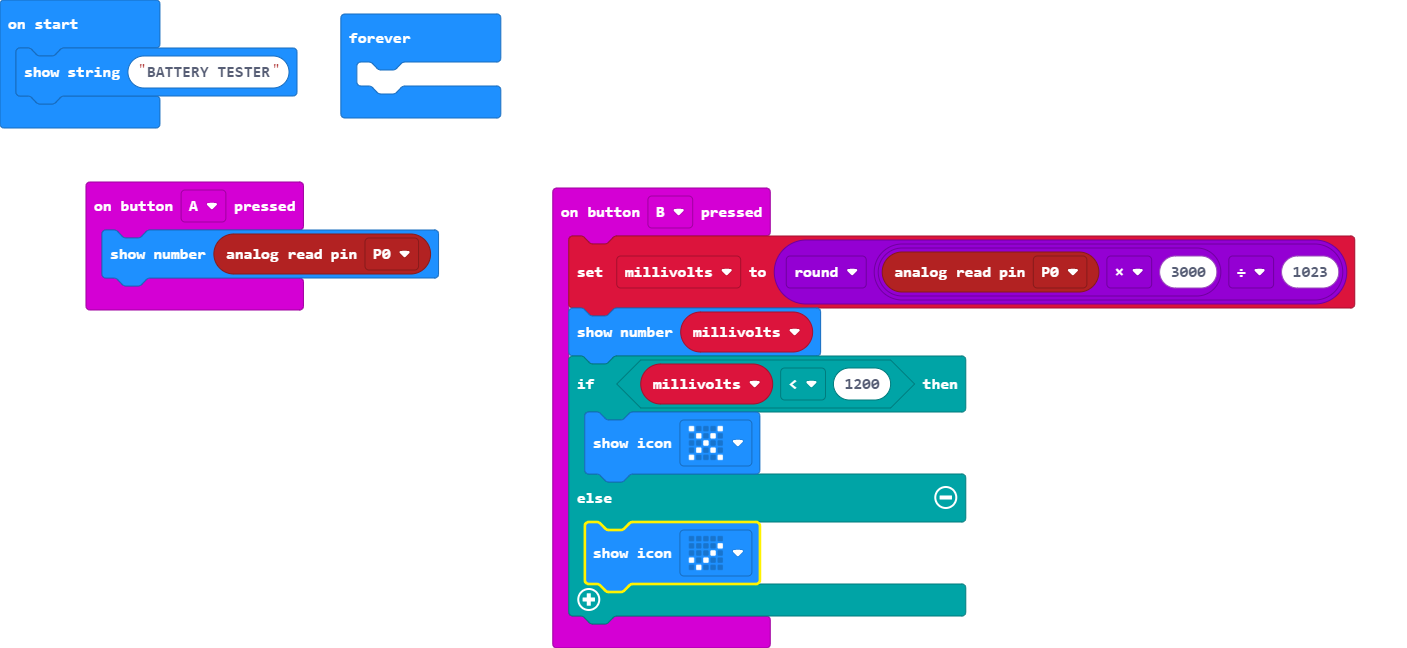
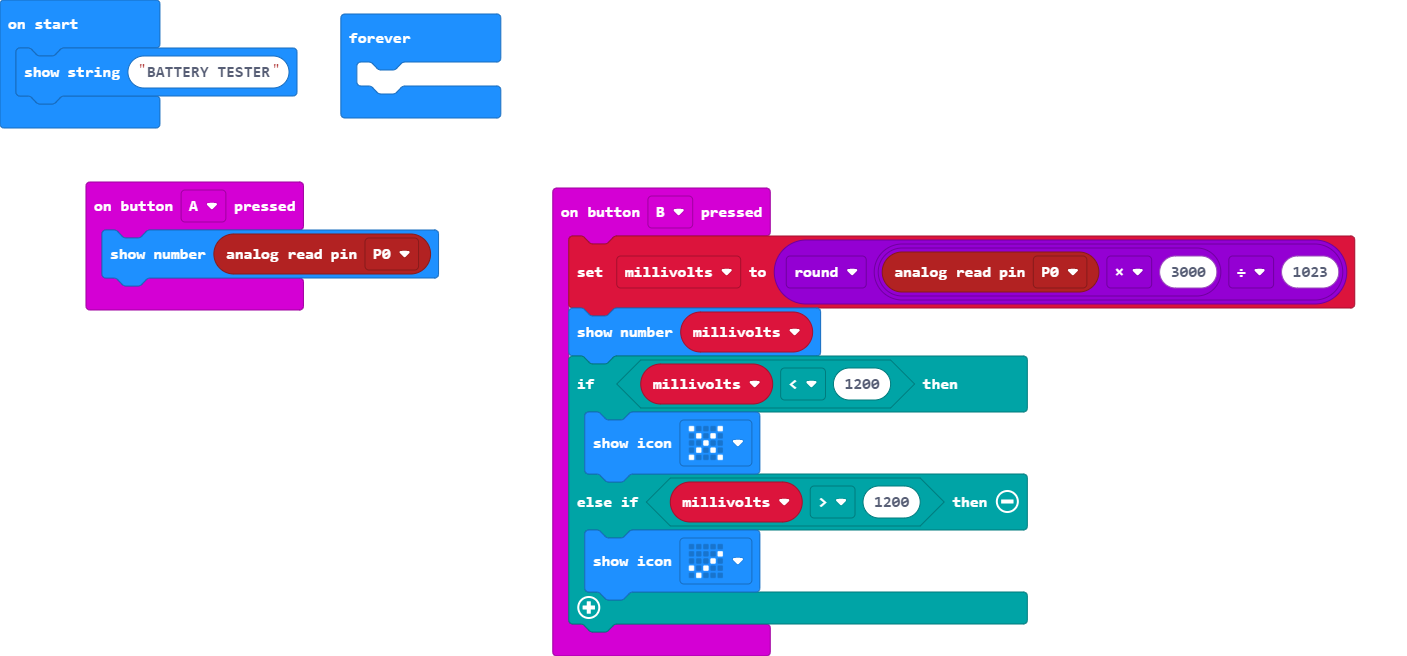
Update main.blocks, main.ts

diff --git a/main.ts b/main.ts
@@ -6,7 +6,7 @@ input.onButtonPressed(Button.B, function () {
     basic.showNumber(millivolts)
     if (millivolts < 1200) {
         basic.showIcon(IconNames.No)
-    } else {
+    } else if (millivolts > 1200) {
         basic.showIcon(IconNames.Yes)
     }
 })
